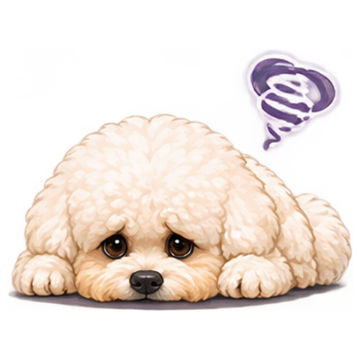
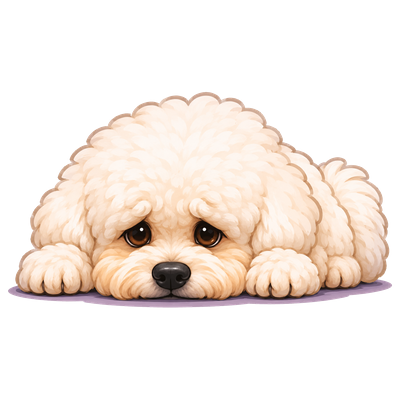
Laughing Toby on correct dogs, new sad Toby, full-body Paw-some
- A correctly placed dog briefly shows the Excited (laughing) face, then
  settles into the normal Toby head. Wrong dogs don't.
- Lost a Bone uses Mike's new sad Toby render (design/toby-sad.png), shown wider.
- The Paw-some win screen always uses the full-body celebration, daily too.

Claude-Session: https://claude.ai/code/session_01X2DzHikvmZdyBSqugt2kme

diff --git a/index.html b/index.html
@@ -73,6 +73,7 @@ body.nopat .tile{background-image:none!important}
 .tile .x{width:52%;height:52%}
 .tile .x.red{animation:pop .3s}
 .tile .dog{width:96%;height:96%;pointer-events:none;background:url(toby/tile-head.png) center/contain no-repeat;transform:translateZ(0)}
+.tile.joy .dog{background-image:url(toby/face-excited.png)}
 .tile.pop .dog{animation:pop .4s}
 .tile.sniffed{animation:sniffed .9s}
 @keyframes sniffed{0%{box-shadow:0 0 0 0 rgba(247,154,34,.9)}40%{box-shadow:0 0 0 4px rgba(247,154,34,.9)}100%{box-shadow:0 0 0 0 rgba(247,154,34,0)}}
@@ -241,7 +242,7 @@ body.rm *,body.rm *::before,body.rm *::after{animation:none!important;transition
 </div></div>
 
 <div class="overlay" id="ovLose"><div class="panel">
-  <img class="mascot" src="toby/act-oops.png" alt="Toby lost a bone">
+  <img class="mascot" src="toby/act-oops.png" alt="Toby lost a bone" style="width:190px;height:150px;margin:-20px auto -16px">
   <h2>Out of bones!</h2><p>No harm done. Start this puzzle fresh, or carry on with one extra bone for half points.</p>
   <div class="btnrow"><button class="btn" id="loseKeep">Keep going</button><button class="btn primary" id="loseRetry">Try again</button></div>
 </div></div>
@@ -700,7 +701,11 @@ function commit(changes, opts) {
         wrongOnes.forEach(i => { if (G.marks[i] === 2) { G.marks[i] = 1; if (!G.red) G.red = []; if (!G.red.includes(i)) G.red.push(i); } });
         paint(); saveGame();
       }, 650);
-    } else afterPaint(sfx.dog);
+    } else {
+      afterPaint(sfx.dog);
+      // a correct dog briefly laughs (Excited face), then settles into the normal Toby head
+      placedDogs.forEach(i => { const t = tiles[i]; t.classList.add('joy'); clearTimeout(t._joy); t._joy = setTimeout(() => t.classList.remove('joy'), 750); });
+    }
   } else if (!opts.silent) {
     const crossed = entry.some(([i]) => G.marks[i] === 1);
     afterPaint(crossed ? sfx.x : sfx.clear);
@@ -754,7 +759,6 @@ function checkWin() {
   sfx.win();
   $('winText').textContent = (G.kind === 'daily' ? `Daily puzzle for ${prettyDay(G.key)} done` : `Level ${G.key} done`) + ` in ${fmtTime(G.elapsed)}` + (!G.hints && !G.finds ? ', all by yourself!' : '.') + extra;
   $('winNext').textContent = G.kind === 'daily' ? 'Home' : 'Next level';
-  $('winToby').src = G.kind === 'daily' ? 'toby/face-excited.png' : 'toby/act-complete.png';
   if (G.kind === 'level' && G.key + 1 === DAILY_UNLOCK) setTimeout(() => toast('Daily puzzles unlocked! Find them on the home screen 🐾'), 2500);
   $('winBreak').innerHTML = lines.map(([k, v]) => `<div><span>${k}</span><span>${v > 0 ? '+' : ''}${v}</span></div>`).join('') + `<div class="tot"><span>Total</span><span>+${total}</span></div>`;
   if (solvedCount === 5 && settings.rules) { settings.rules = false; store.set('settings', settings); updateRulesBar(); setTimeout(() => toast('Rules bar tucked away. Bring it back in Settings.'), 1800); }
@@ -1032,7 +1036,7 @@ $('btnRestart').onclick = () => {
 
 // ---------------- boot ----------------
 buildDefs();
-['toby/tile-head.png', 'toby/face-happy.png', 'toby/act-sniff.png'].forEach(src => { const im = new Image(); im.src = src; if (im.decode) im.decode().catch(() => {}); });
+['toby/tile-head.png', 'toby/face-excited.png', 'toby/face-happy.png', 'toby/act-sniff.png'].forEach(src => { const im = new Image(); im.src = src; if (im.decode) im.decode().catch(() => {}); });
 $('logo').innerHTML = '<img src="logo.png" alt="Sudogku">';
 {
   const paw = (x, y, rot, sc) => `<g transform="translate(${x} ${y}) rotate(${rot}) scale(${sc})" fill="#E9C9B6"><ellipse cx="0" cy="5" rx="7" ry="6"/><circle cx="-8" cy="-3" r="3.2"/><circle cx="-3" cy="-8.5" r="3.2"/><circle cx="3" cy="-8.5" r="3.2"/><circle cx="8" cy="-3" r="3.2"/></g>`;

diff --git a/sw.js b/sw.js
@@ -1,5 +1,5 @@
 // Sudogku service worker: works offline once installed.
-const CACHE = 'sudogku-toby-v17';
+const CACHE = 'sudogku-toby-v18';
 const FILES = ['./', 'index.html', 'engine.js', 'manifest.webmanifest', 'icon-180.png', 'icon-192.png', 'icon-512.png', 'logo.png', 'toby-home.png', 'toby/tile.png', 'toby/tile-head.png', 'toby/face-happy.png', 'toby/face-focused.png', 'toby/face-excited.png', 'toby/face-sorry.png', 'toby/face-cheeky.png', 'toby/act-sniff.png', 'toby/act-hint.png', 'toby/act-complete.png', 'toby/act-oops.png'];
 self.addEventListener('install', e => { e.waitUntil(caches.open(CACHE).then(c => c.addAll(FILES))); self.skipWaiting(); });
 self.addEventListener('activate', e => {

diff --git a/CLAUDE_HANDOFF.md b/CLAUDE_HANDOFF.md
@@ -13,8 +13,8 @@ Ad-free, offline, dog-themed take on Meowdoku. Installable PWA. Single-file UI (
   - In-Game Icon (Tile) → `tile-head.png` (Toby's head lifted off the icon's lilac square): every placed dog, sitting on the square's own region colour.
   - Colour key above the board: each colour is a Toby-head silhouette (masked from `face-happy.png`) filled with that colour; when the colour has its dog it becomes the solid Happy face.
   - App / Game Icon → `icon-180/192/512.png`.
-  - Happy → Find a Dog button, help screen, rule cards, loading. Focused (Thinking) → hint card. Excited (Win) → daily-puzzle win. Sorry (Mistake) → "bone cracked" toast. Cheeky → "Found one!" toast.
-  - Sniff Out action → Sniff Out button and toast. Hint action → Logic Hint button. Puzzle Complete → level win (`act-complete.png`, cut from Mike's high-res render `design/toby-celebrate.png`). Lost a Bone → out-of-bones screen.
+  - Happy → Find a Dog button, help screen, rule cards, loading. Focused (Thinking) → hint card. Excited (Win) → flashes for ~0.75 s on each correctly placed dog, then the normal tile head. Sorry (Mistake) → "bone cracked" toast. Cheeky → "Found one!" toast.
+  - Sniff Out action → Sniff Out button and toast. Hint action → Logic Hint button. Puzzle Complete → level win (`act-complete.png`, cut from Mike's high-res render `design/toby-celebrate.png`). Lost a Bone → out-of-bones screen (`act-oops.png`, from Mike's render `design/toby-sad.png`). The Paw-some win screen always uses the full-body celebration, daily included.
   - Home screen follows Mike's home design (`design/home-screen.png`): the wordmark above `toby-home.png` (sitting Toby with the lilac blob and paw prints, transparent background).
   - `logo.png` is the purple Sudogku wordmark cut from `design/home-screen.png` (complete outline, no ribbon), used on the home screen and game header.
 
@@ -36,7 +36,7 @@ Ad-free, offline, dog-themed take on Meowdoku. Installable PWA. Single-file UI (
 - UI checked in desktop Chrome with simulated touch at 390×844 and 375×667. **Still needs a check on a real iPhone in Safari** (double-tap timing, drag, safe areas, offline update).
 
 ## When changing files
-Bump `CACHE` in `sw.js` (currently `sudogku-toby-v17`) so installed copies update.
+Bump `CACHE` in `sw.js` (currently `sudogku-toby-v18`) so installed copies update.
 
 ## Performance notes (iPhone)
 - Avoid CSS `filter` (drop-shadow etc.) on anything that animates or repeats on the board; Safari redraws it every frame. Shadows are baked into the art (`toby/tile-head.png`) and into the ✕ symbol.

diff --git a/CLAUDE.md b/CLAUDE.md
@@ -3,7 +3,7 @@
 Read `CLAUDE_HANDOFF.md` first: it lists Mike's product decisions (tool limits, controls, mistakes, levels, difficulty mix, where each Toby image is used). Don't undo those decisions without Mike asking.
 
 - Keep the puzzle engine (`engine.js`) and its tests passing: `node tests/engine.test.js`.
-- Toby artwork comes only from Mike's designs in `design/` (`toby-character-sheet.png`, `home-screen.png`, `toby-celebrate.png`, `toby-expressions.png`). Use the sheet's own assignments (tile icon for placed dogs, app icon, expressions, action poses). Don't invent or substitute other dog art.
+- Toby artwork comes only from Mike's designs in `design/` (`toby-character-sheet.png`, `home-screen.png`, `toby-celebrate.png`, `toby-expressions.png`, `toby-sad.png`). Use the sheet's own assignments (tile icon for placed dogs, app icon, expressions, action poses). Don't invent or substitute other dog art.
 - After changing any shipped file, bump `CACHE` in `sw.js` and add new files to its `FILES` list.
 - The site is served from the repo root on GitHub Pages; keep paths relative.
 - Test touch controls at phone sizes (390×844 and 375×667): tap = ✕, tap again = clear, double-tap = dog, drag = many ✕.
